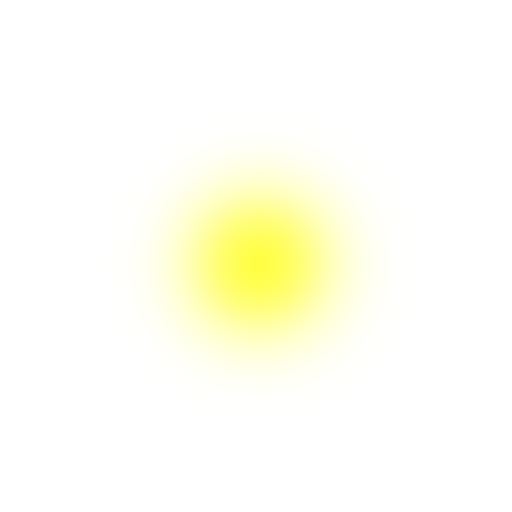
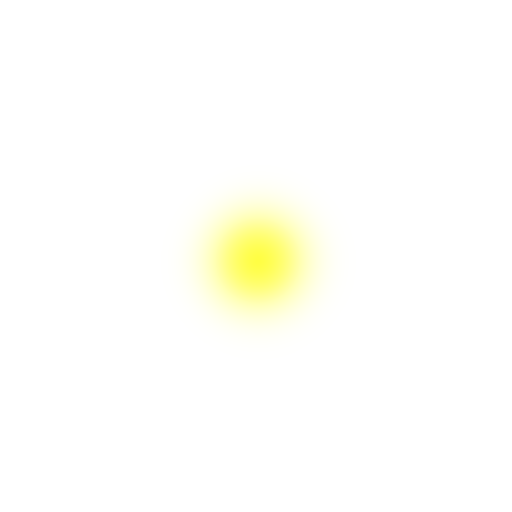
演出を調整

Changed region(s): [[0.2812, 0.3125, 0.7188, 0.7188]]

diff --git a/DirectXGame/PlayerDeathEffect.cpp b/DirectXGame/PlayerDeathEffect.cpp
@@ -1,0 +1,165 @@
+#include "PlayerDeathEffect.h"
+
+#include <algorithm>
+#include <cassert>
+#include <cmath>
+#include <numbers>
+#include <random>
+
+using namespace KamataEngine;
+
+void PlayerDeathEffect::Initialize(Model* model, Camera* camera) {
+
+	assert(model);
+	assert(camera);
+
+	model_ = model;
+	camera_ = camera;
+
+	for (PlayerDeathLight& light : lights_) {
+		light.worldTransform.Initialize();
+
+		light.worldTransform.scale_ = {};
+		light.velocity = {};
+		light.initialScale = 1.0f;
+		light.alphaRate = 1.0f;
+		light.isActive = false;
+
+		transform_.worldMatrixUpdate(light.worldTransform);
+	}
+
+	effectTimer_ = 0.0f;
+	isPlaying_ = false;
+	isFinished_ = true;
+}
+
+void PlayerDeathEffect::Start(const Vector3& position) {
+
+	effectTimer_ = 0.0f;
+	isPlaying_ = true;
+	isFinished_ = false;
+
+	// 毎回少し異なる散り方にする
+	static std::mt19937 randomEngine{std::random_device{}()};
+
+	std::uniform_real_distribution<float> angleOffsetDistribution(-0.18f, 0.18f);
+
+	std::uniform_real_distribution<float> speedDistribution(kMinSpeed, kMaxSpeed);
+
+	std::uniform_real_distribution<float> scaleDistribution(kMinScale, kMaxScale);
+
+	std::uniform_real_distribution<float> alphaDistribution(0.70f, 1.0f);
+
+	for (size_t i = 0; i < lights_.size(); ++i) {
+		PlayerDeathLight& light = lights_[i];
+
+		float baseAngle = std::numbers::pi_v<float> * 2.0f * static_cast<float>(i) / static_cast<float>(lights_.size());
+
+		float angle = baseAngle + angleOffsetDistribution(randomEngine);
+
+		float speed = speedDistribution(randomEngine);
+
+		light.velocity = {
+		    std::cos(angle) * speed,
+		    std::sin(angle) * speed + 0.8f,
+		    0.0f,
+		};
+
+		light.initialScale = scaleDistribution(randomEngine);
+
+		light.alphaRate = alphaDistribution(randomEngine);
+
+		light.worldTransform.translation_ = position;
+
+		// プレイヤーや敵より少し手前
+		light.worldTransform.translation_.z -= kFrontOffsetZ;
+
+		light.worldTransform.rotation_ = {};
+
+		light.worldTransform.scale_ = {
+		    light.initialScale,
+		    light.initialScale,
+		    1.0f,
+		};
+
+		light.isActive = true;
+
+		transform_.worldMatrixUpdate(light.worldTransform);
+	}
+}
+
+void PlayerDeathEffect::Update() {
+	if (!isPlaying_) {
+		return;
+	}
+
+	const float deltaTime = 1.0f / 60.0f;
+
+	effectTimer_ += deltaTime;
+
+	float t = std::clamp(effectTimer_ / kEffectTime, 0.0f, 1.0f);
+
+	for (PlayerDeathLight& light : lights_) {
+		if (!light.isActive) {
+			continue;
+		}
+
+		light.worldTransform.translation_.x += light.velocity.x * deltaTime;
+
+		light.worldTransform.translation_.y += light.velocity.y * deltaTime;
+
+		// 徐々に減速
+		light.velocity.x *= kVelocityAttenuation;
+		light.velocity.y *= kVelocityAttenuation;
+
+		// 最初は大きく、徐々に小さくする
+		float scaleRate = 1.0f - t;
+		scaleRate *= scaleRate;
+
+		float scale = light.initialScale * scaleRate;
+
+		light.worldTransform.scale_ = {
+		    scale,
+		    scale,
+		    1.0f,
+		};
+
+		transform_.worldMatrixUpdate(light.worldTransform);
+
+		if (t >= 1.0f) {
+			light.isActive = false;
+		}
+	}
+
+	if (t >= 1.0f) {
+		isPlaying_ = false;
+		isFinished_ = true;
+	}
+}
+
+void PlayerDeathEffect::Draw() {
+	if (!isPlaying_ || !model_ || !camera_) {
+		return;
+	}
+
+	float t = std::clamp(effectTimer_ / kEffectTime, 0.0f, 1.0f);
+
+	// 後半で急速に薄くする
+	float fadeRate = 1.0f - t;
+	fadeRate *= fadeRate;
+
+	for (const PlayerDeathLight& light : lights_) {
+		if (!light.isActive) {
+			continue;
+		}
+
+		float alpha = kMaxAlpha * light.alphaRate * fadeRate;
+
+		model_->SetAlpha(alpha);
+
+		model_->Draw(light.worldTransform, *camera_);
+	}
+
+	// hitEffectModel_は共有されるため戻しておく
+	model_->SetAlpha(1.0f);
+}

diff --git a/DirectXGame/GameScene.cpp b/DirectXGame/GameScene.cpp
@@ -29,6 +29,10 @@ GameScene::~GameScene() {
 	delete chargeEffect_;
 	chargeEffect_ = nullptr;
 
+	// プレイヤー死亡演出の解放
+	delete playerDeathEffect_;
+	playerDeathEffect_ = nullptr;
+
 	// 複数ブロックの解放処理
 	for (std::vector<WorldTransform*>& worldTransformBlockLine : worldTransformBlocks_) {
 		for (WorldTransform* worldTransformBlock : worldTransformBlockLine) {
@@ -208,6 +212,10 @@ void GameScene::Initialize(bool skipTutorial) {
 	chargeEffect_ = new ChargeEffect();
 	chargeEffect_->Initialize(guardEffectModel_, &camera_);
 
+	// プレイヤー死亡演出の生成
+	playerDeathEffect_ = new PlayerDeathEffect();
+	playerDeathEffect_->Initialize(hitEffectModel_, &camera_);
+
 	/*--------------- カメラ ---------------*/
 	// カメラコントローラの生成
 	camaraController_ = new CameraController();
@@ -231,7 +239,6 @@ void GameScene::Initialize(bool skipTutorial) {
 
 	/*-------------------- プレイヤー死亡演出 --------------------*/
 	hasCreatedPlayerDeathEffect_ = false;
-	playerDeathEffectTimer_ = 0.0f;
 
 	/*-------------------- ゲームの終了判定 --------------------*/
 	finished_ = false;
@@ -537,22 +544,9 @@ void GameScene::Update() {
 		// プレイヤー本体の死亡演出を更新
 		player_->UpdateDeathAnimation();
 
-		if (player_->IsDeathAnimationFinished() && !hasCreatedPlayerDeathEffect_) {
-
-			hasCreatedPlayerDeathEffect_ = true;
-
-			// 敵の死亡時に使っているエフェクトを流用
-			CreateHitEffect(player_->GetWorldPos(), HitEffectType::kHit);
-
-			playerDeathEffectTimer_ = kPlayerDeathEffectWaitTime;
-		}
-
-		/*========== 死亡エフェクト表示時間 ==========*/
-		if (hasCreatedPlayerDeathEffect_ && playerDeathEffectTimer_ > 0.0f) {
-
-			playerDeathEffectTimer_ -= deltaTime;
-
-			playerDeathEffectTimer_ = (std::max)(playerDeathEffectTimer_, 0.0f);
+		// プレイヤー専用の光エフェクト
+		if (playerDeathEffect_) {
+			playerDeathEffect_->Update();
 		}
 
 		// 敵の更新
@@ -689,6 +683,11 @@ void GameScene::Draw() {
 
 	// プレイヤーの描画
 	player_->Draw();
+
+	// プレイヤー専用の死亡光
+	if (playerDeathEffect_) {
+		playerDeathEffect_->Draw();
+	}
 
 	// 溜め攻撃のエフェクトの描画
 	if (chargeEffect_) {
@@ -1597,10 +1596,16 @@ void GameScene::ChangePhase() {
 
 			hasCreatedPlayerDeathEffect_ = false;
 
-			playerDeathEffectTimer_ = 0.0f;
-
-			// プレイヤー本体の死亡演出を開始
+			// プレイヤー本体の回転・縮小を開始
 			player_->StartDeathAnimation();
+
+			// StartDeathAnimation()でプレイヤーが上へ移動した後の
+			// 座標から光を散らす
+			if (playerDeathEffect_) {
+				playerDeathEffect_->Start(player_->GetWorldPos());
+
+				hasCreatedPlayerDeathEffect_ = true;
+			}
 
 		} else if (playTimer_ >= kClearTime) {
 			gameResult_ = GameResult::kClear;
@@ -1611,13 +1616,17 @@ void GameScene::ChangePhase() {
 
 		break;
 
-	case GameScene::Phase::kDeath:
-		if (player_->IsDeathAnimationFinished() && hasCreatedPlayerDeathEffect_ && playerDeathEffectTimer_ <= 0.0f) {
+	case GameScene::Phase::kDeath: {
+		bool isPlayerDeathEffectFinished = !playerDeathEffect_ || playerDeathEffect_->IsFinished();
+
+		if (player_->IsDeathAnimationFinished() && hasCreatedPlayerDeathEffect_ && isPlayerDeathEffectFinished) {
 
 			gameFinishTimer_ = 0.0f;
 			phase_ = GameScene::Phase::kFinish;
 		}
+
 		break;
+	}
 
 	case GameScene::Phase::kFinish:
 		if (gameFinishTimer_ >= kGameFinishDisplayTime) {

diff --git a/DirectXGame/PlayerDeathEffect.h b/DirectXGame/PlayerDeathEffect.h
@@ -1,0 +1,69 @@
+#pragma once
+
+#include "KamataEngine.h"
+#include "Transform.h"
+
+#include <array>
+
+struct PlayerDeathLight {
+	KamataEngine::WorldTransform worldTransform;
+
+	KamataEngine::Vector3 velocity = {};
+
+	float initialScale = 1.0f;
+	float alphaRate = 1.0f;
+
+	bool isActive = false;
+};
+
+class PlayerDeathEffect {
+public:
+	// 初期化
+	void Initialize(KamataEngine::Model* model, KamataEngine::Camera* camera);
+
+	// 演出開始
+	void Start(const KamataEngine::Vector3& position);
+
+	// 更新
+	void Update();
+
+	// 描画
+	void Draw();
+
+	bool IsFinished() const { return isFinished_; }
+
+private:
+	Transform transform_;
+
+	KamataEngine::Model* model_ = nullptr;
+	KamataEngine::Camera* camera_ = nullptr;
+
+	static constexpr size_t kLightCount = 18;
+
+	std::array<PlayerDeathLight, kLightCount> lights_{};
+
+	float effectTimer_ = 0.0f;
+
+	bool isPlaying_ = false;
+	bool isFinished_ = true;
+
+	// 演出全体の時間
+	static constexpr float kEffectTime = 0.85f;
+
+	// 光の最低・最高速度
+	static constexpr float kMinSpeed = 4.5f;
+	static constexpr float kMaxSpeed = 12.0f;
+
+	// 光の大きさ
+	static constexpr float kMinScale = 0.55f;
+	static constexpr float kMaxScale = 0.95f;
+
+	// 最大透明度
+	static constexpr float kMaxAlpha = 0.75f;
+
+	// 移動速度の減衰率
+	static constexpr float kVelocityAttenuation = 0.965f;
+
+	// プレイヤーより手前へ出す距離
+	static constexpr float kFrontOffsetZ = 0.25f;
+};

diff --git a/DirectXGame/GameScene.h b/DirectXGame/GameScene.h
@@ -6,6 +6,7 @@
 #include "GameResult.h"
 #include "HitEffect.h"
 #include "ChargeEffect.h"
+#include "PlayerDeathEffect.h"
 #include "KamataEngine.h"
 #include "MapChipField.h"
 #include "Player.h"
@@ -174,14 +175,11 @@ private:
 	bool isDebugCameraActive_ = false;
 
 	/*-------------------- プレイヤー死亡演出 --------------------*/
-	// 死亡時のヒットエフェクトを生成したか
+	// 専用の光エフェクト
+	PlayerDeathEffect* playerDeathEffect_ = nullptr;
+
+	// 二重開始防止
 	bool hasCreatedPlayerDeathEffect_ = false;
-
-	// エフェクト表示後の待ち時間
-	float playerDeathEffectTimer_ = 0.0f;
-
-	// フェード開始までエフェクトを見せる時間
-	static constexpr float kPlayerDeathEffectWaitTime = 0.25f;
 
 	/*-------------------- スコア --------------------*/
 	// 現在のスコア
